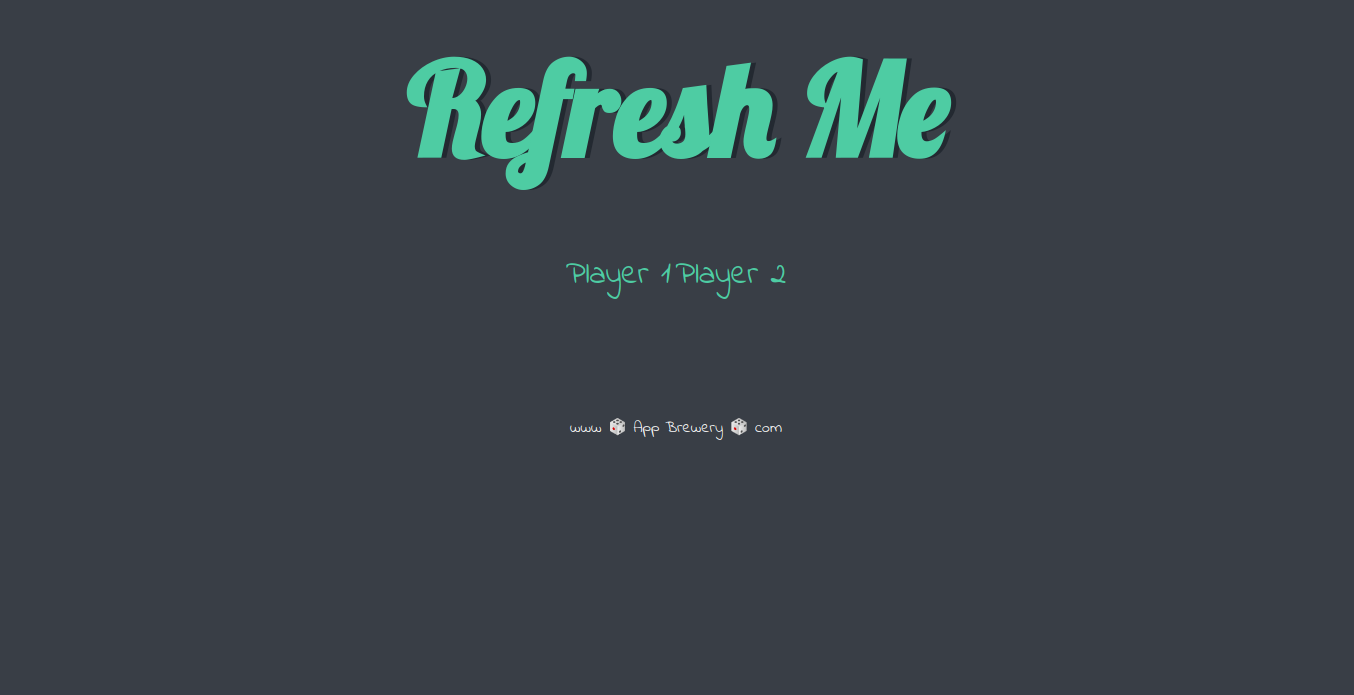
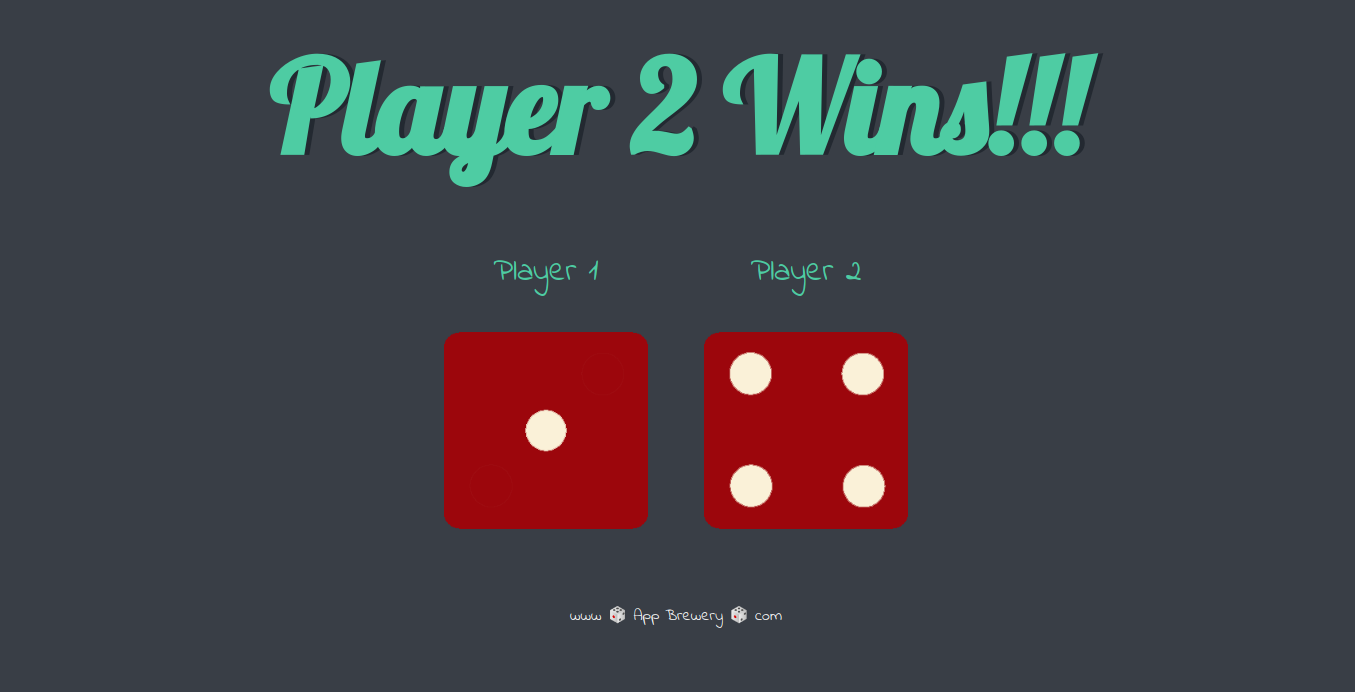
README.md updated

diff --git a/index.js b/index.js
@@ -16,4 +16,3 @@ else if(randomNumber2 > randomNumber1) {
 else {
     document.querySelector("#title").innerText = 'Draw Game...';
 }
-

diff --git a/README.md b/README.md
@@ -1,3 +1,5 @@
-##This project consists in make a dice game using JavaScript
+## This project consists in make a dice game using JavaScript
+### The random method is used to show the dice and shows the winners after each match
+## All you have to do is refresh the page
 
 ![Index Page](images/1.png)
